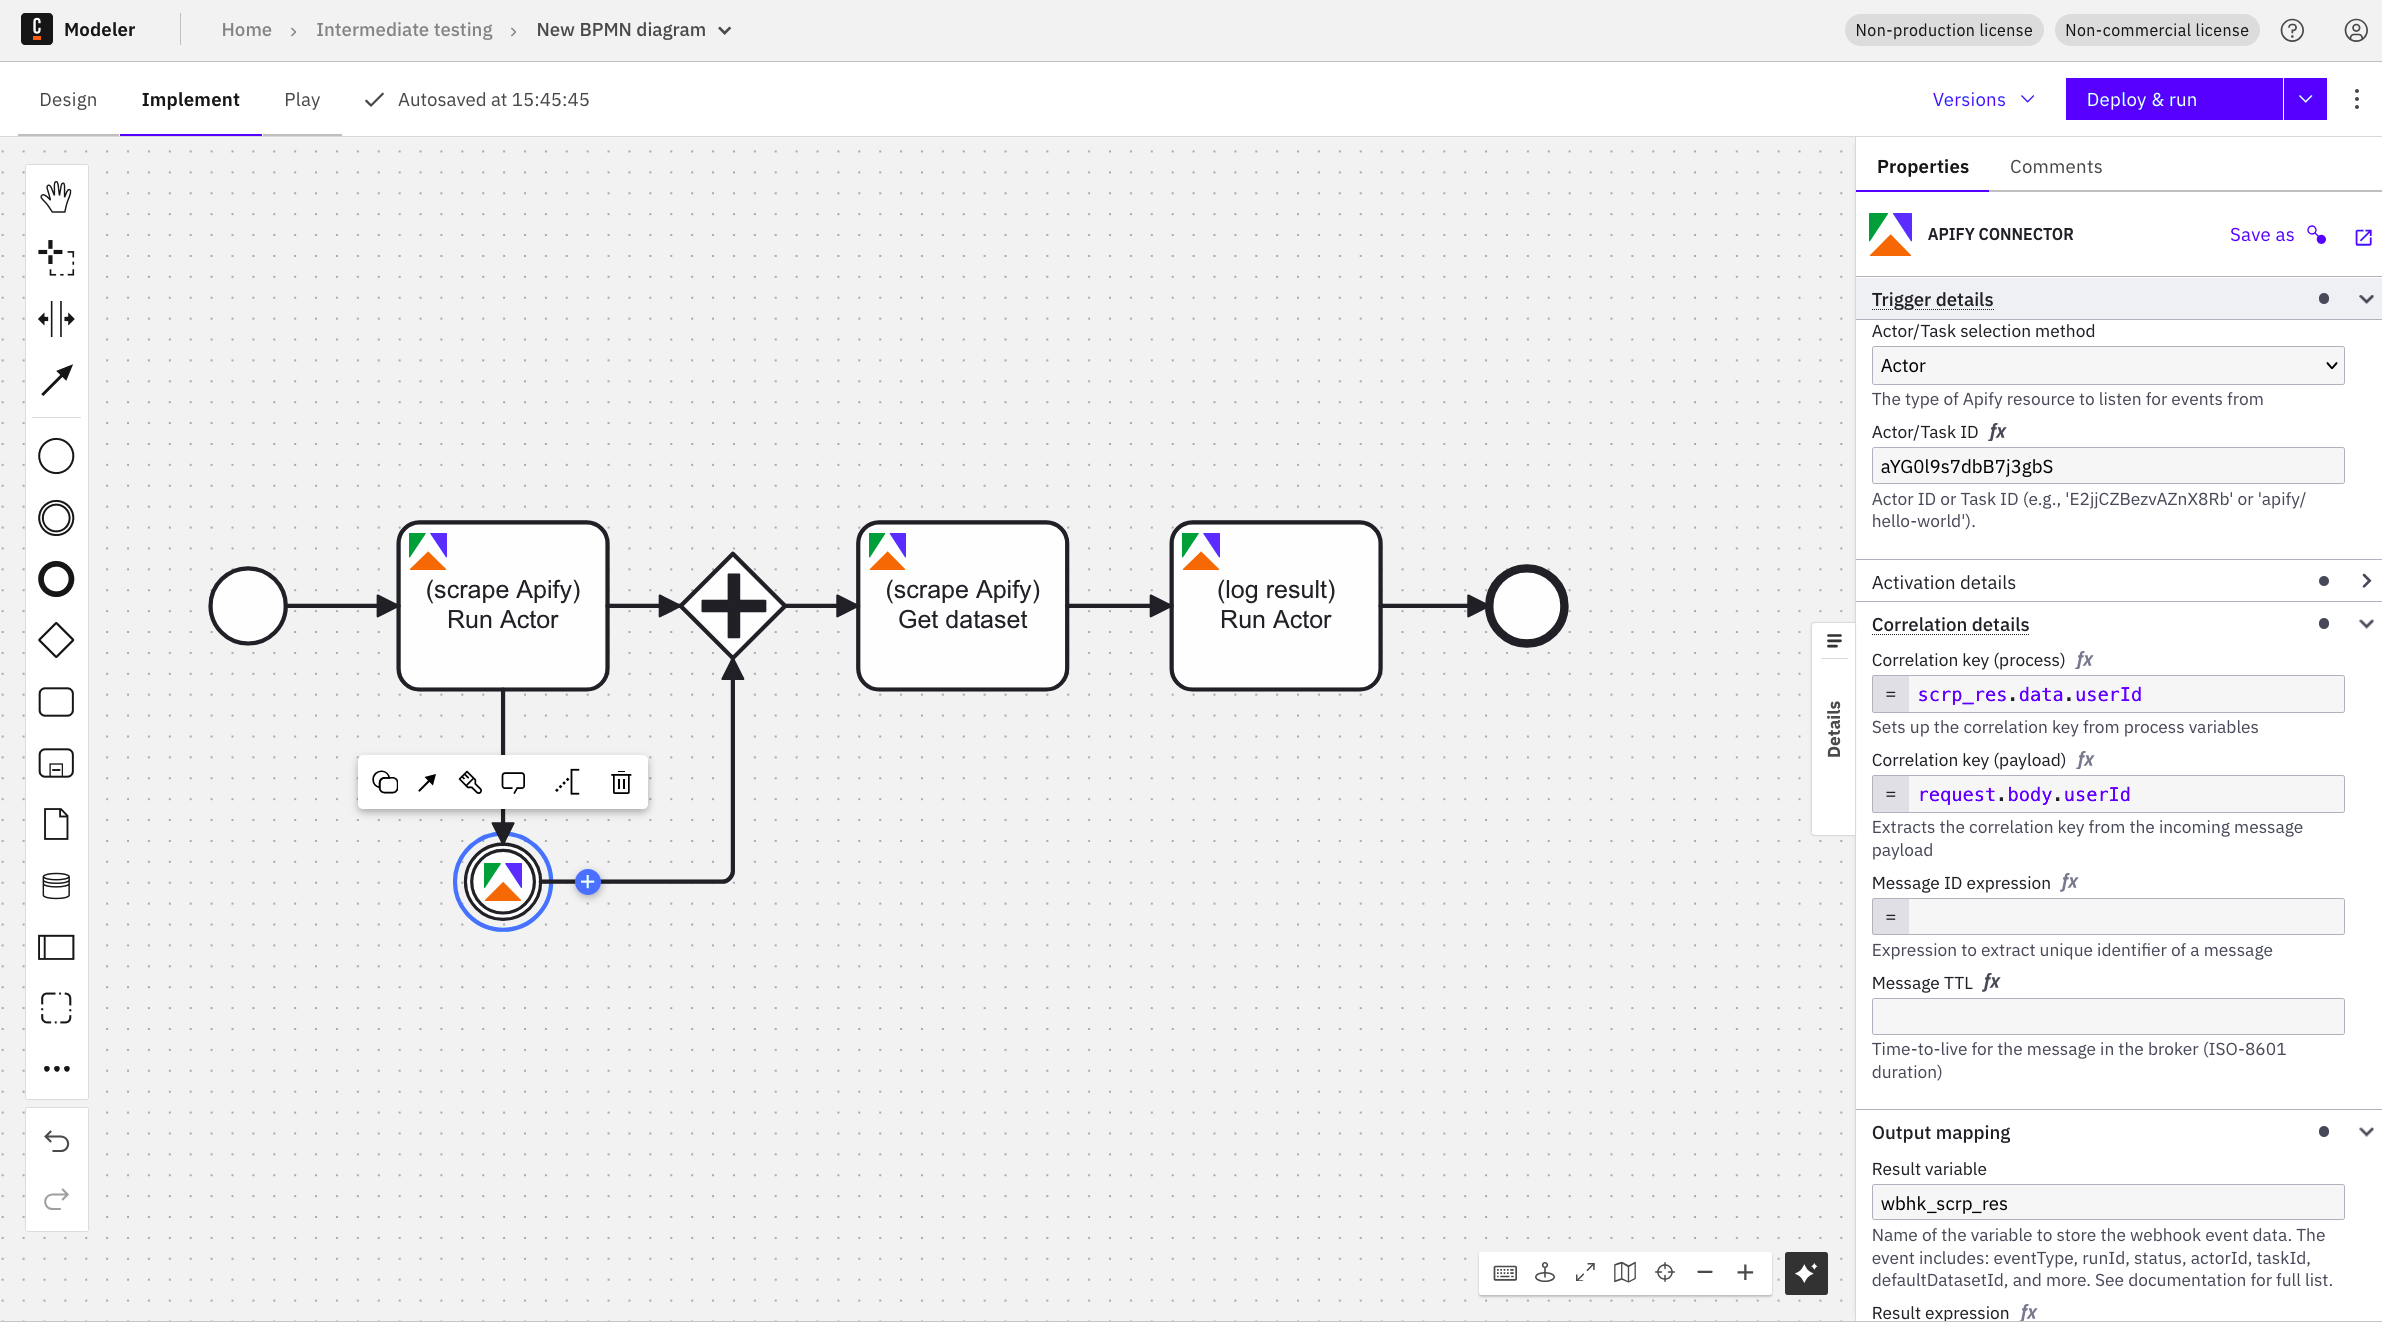
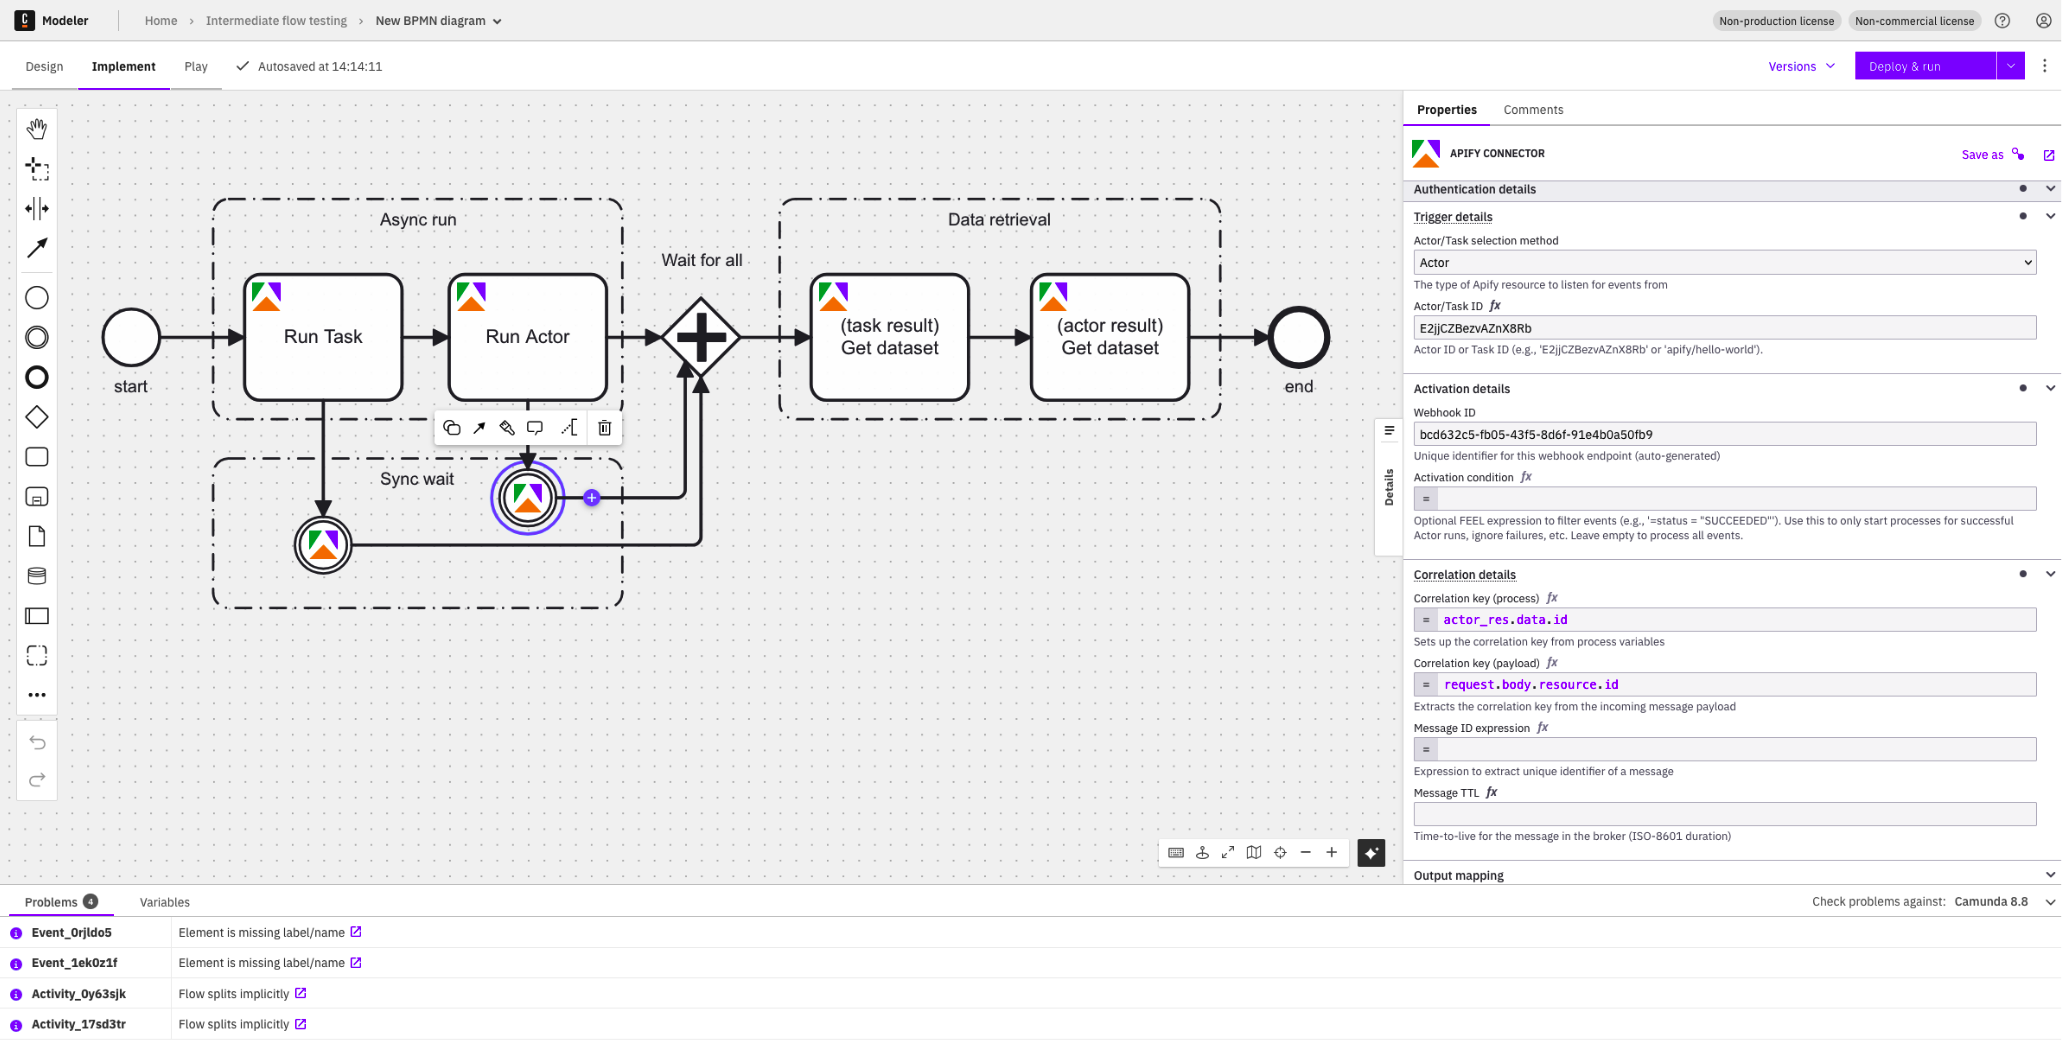
fix: updated more complex flow, and updated readme, still needs to be revisited and updated

diff --git a/README.md b/README.md
@@ -28,6 +28,7 @@ Integrate [Apify](https://apify.com/) web scraping and automation capabilities i
     - [Understanding FEEL Expressions](#understanding-feel-expressions)
     - [Correlation Key Best Practices](#correlation-key-best-practices)
     - [Activation Condition](#activation-condition)
+  - [Testing Flows in the Modeler](#testing-flows-in-the-modeler)
 - [Reference](#reference)
   - [Camunda Architecture](#camunda-architecture)
   - [Service URLs](#service-urls)
@@ -47,7 +48,7 @@ Integrate [Apify](https://apify.com/) web scraping and automation capabilities i
 
 Follow the [Camunda Docker Compose quickstart](https://docs.camunda.io/docs/self-managed/quickstart/developer-quickstart/docker-compose) to spin up the full stack locally.
 
-> **Note:** Install the FULLY configured stack which includes Web Modeler. This connector was tested with [Camunda 8.8](https://github.com/camunda/camunda-distributions/releases/tag/docker-compose-8.8).
+> **Note:** Install the **fully** configured stack which includes Web Modeler. This connector was tested with [Camunda 8.8](https://github.com/camunda/camunda-distributions/releases/tag/docker-compose-8.8).
 
 ### 2. Clone and Build
 
@@ -115,7 +116,9 @@ Keep this terminal running while working with Camunda Modeler.
 
 ### Regenerating Element Templates
 
-The templates in `element-templates/` were generated and then customized for Apify. If you want to regenerate the original (base) templates, including all possible versions, use the command below. We use two inbound and one outbound template; several additional inbound templates exist, but you typically shouldn't regenerate unless you're sure, as Apify-specific changes may be lost.
+The templates in `element-templates/` were generated and then customized for Apify. We use two inbound and one outbound template.
+
+If you want to regenerate the original (base) templates, use the command below. **Warning:** Apify-specific customizations may be lost when regenerating.
 
 
 ```bash
@@ -201,11 +204,15 @@ Use the Start Event to begin a new process instance when an Apify webhook fires 
    - **Resource ID**: The Actor/Task **ID** or **name**
    - **Output Variable**: Variable name for the webhook result (e.g., `webhookResult`)
 
-7. **Deploy** the process. This automatically creates a webhook in Apify.
+7. **Deploy** or **Play** the process:
+   - **Deploy**: Creates a persistent webhook in Apify that listens for events continuously
+   - **Play**: Runs the process once in the modeler's playground without creating persistent webhooks
 
 ![Deploying the process](docs/modeler/set-inputs-and-deploy.png)
 
-8. Verify the webhook was created in Apify (Actor page → **Integrations** tab).
+> **Tip:** For testing inbound connectors, prefer using **Play mode** instead of deploying. See [Testing Flows in the Modeler](#testing-flows-in-the-modeler) for details.
+
+8. If you deployed, verify the webhook was created in Apify (Actor page → **Integrations** tab).
 
 9. If you used `http://example.com` as the connector base URL, update the webhook URL in Apify to your ngrok URL.
 
@@ -244,7 +251,7 @@ Use the Intermediate Event to launch Actors asynchronously and wait for their co
 Unlike Start Events, Intermediate Events need to know **which** process instance to wake up. This is done via **Correlation Keys**.
 
 Think of it as matching tickets:
-1. **Correlation key (process)**: A value stored in your process (e.g., `userId` from Actor launch response)
+1. **Correlation key (process)**: A value stored in your process (e.g., run `id` from Actor launch response)
 2. **Correlation key (payload)**: The same value extracted from the incoming webhook
 
 When they match, the waiting process continues.
@@ -254,8 +261,8 @@ When they match, the waiting process continues.
 Correlation keys and other connector fields use **FEEL** (Friendly Enough Expression Language), Camunda's expression language for accessing process variables and webhook data.
 
 **Key syntax:**
-- Expressions start with `=` (e.g., `=scrp_res.data.userId`)
-- Use dot notation to access nested fields (e.g., `request.body.userId`)
+- Expressions start with `=` (e.g., `=scrp_res.data.id`)
+- Use dot notation to access nested fields (e.g., `request.body.resource.id`)
 - Without `=`, values are treated as literal strings
 
 **Common patterns:**
@@ -264,12 +271,12 @@ Correlation keys and other connector fields use **FEEL** (Friendly Enough Expres
 |------------|-------------|
 | `=myVariable` | Access a process variable |
 | `=response.data.id` | Access nested field from a variable |
-| `=request.body.userId` | Access field from incoming webhook payload |
+| `=request.body.resource.id` | Access field from incoming webhook payload |
 | `="literal"` | Literal string value |
 
 **In the context of this connector:**
-- **Process expressions** (like `=scrp_res.data.userId`) reference variables set earlier in the process
-- **Payload expressions** (like `=request.body.userId`) reference fields in the incoming webhook HTTP request
+- **Process expressions** (like `=scrp_res.data.id`) reference variables set earlier in the process
+- **Payload expressions** (like `=request.body.resource.id`) reference fields in the incoming webhook HTTP request
 
 For more details, see [Camunda FEEL documentation](https://docs.camunda.io/docs/components/modeler/feel/what-is-feel/).
 
@@ -310,7 +317,7 @@ Configure the outbound connector to scrape apify.com:
 
 **3. Parallel Gateway (Fork)**
 
-Add an **Inclusive Gateway** (or Parallel Gateway) immediately after the Run Actor task. This splits the flow into branches:
+Add a **Parallel Gateway** immediately after the Run Actor task. This splits the flow into branches:
 - **Branch 1**: The Intermediate Event that waits for the webhook
 - **Branch 2**: Any other work you want to do while waiting (optional)
 
@@ -323,22 +330,22 @@ In one branch, add an Apify Inbound Intermediate Event to wait for the Actor to 
 | **Token** | Your Apify API token |
 | **Resource Type** | Actor |
 | **Resource ID** | `aYG0l9s7dbB7j3gbS` (same Actor) |
-| **Correlation key (process)** | `=scrp_res.data.userId` |
-| **Correlation key (payload)** | `=request.body.userId` |
+| **Correlation key (process)** | `=scrp_res.data.id` |
+| **Correlation key (payload)** | `=request.body.resource.id` |
 | **Result Variable** | `wbhk_scrp_res` |
 | **Result Expression** | `=wbhk_scrp_res` |
 
 **Where do these values come from?**
 
-- **`scrp_res.data.userId`**: This comes from the [Run Actor API response](https://docs.apify.com/api/v2#/reference/actors/run-collection/run-actor). When you start an Actor, Apify returns a JSON object containing run details including `userId`, `id` (runId), `defaultDatasetId`, etc.
+- **`scrp_res.data.id`**: This comes from the [Run Actor API response](https://docs.apify.com/api/v2#/reference/actors/run-collection/run-actor). When you start an Actor, Apify returns a JSON object containing run details including `id` (the run ID), `userId`, `defaultDatasetId`, etc.
 
-- **`request.body.userId`**: This comes from the webhook payload that Apify sends when the Actor completes. The webhook body contains the same fields. See [Apify Webhooks documentation](https://docs.apify.com/platform/integrations/webhooks) for the full payload structure.
+- **`request.body.resource.id`**: This comes from the webhook payload that Apify sends when the Actor completes. The `resource` object contains details about the run, including its `id`. See [Apify Webhooks documentation](https://docs.apify.com/platform/integrations/webhooks) for the full payload structure.
 
 This branch will pause until the Actor completes and sends a webhook.
 
 **5. Parallel Gateway (Join)**
 
-Add another Inclusive/Parallel Gateway to merge the branches. The flow continues only after all branches complete (including the webhook being received).
+Add another **Parallel Gateway** to merge the branches. The flow continues only after all branches complete (including the webhook being received).
 
 **6. Get Dataset Items**
 
@@ -359,36 +366,39 @@ Use Hello World Actor to verify the gathered data:
 |---------|-------|
 | **Operation** | Run Actor |
 | **Actor ID** | `E2jjCZBezvAZnX8Rb` (Hello World) |
-| **Input JSON** | `{"message": data_res}` |
+| **Input JSON** | `={"message": data_res}` |
 | **Wait for Finish** | `true` |
 
-**8. Deploy and Test**
+**8. Run or Deploy**
 
-1. Deploy & start the process
-1. The scraper launches asynchronously
-1. The parallel gateway splits: one branch immediately starts waiting for the webhook
-1. When the Actor completes, Apify sends a webhook
-1. The webhook wakes up the waiting branch (correlation keys match on `userId`)
-1. The join gateway waits for all branches to complete
-1. Dataset items are retrieved and passed to Hello World Actor
+You have two options to test your process:
 
+- **Play mode** (recommended for testing): Click **Play** next to the Implement tab to run the process once without creating persistent webhooks. Results appear in Camunda Operate.
+- **Deploy & run**: Creates persistent webhooks that continue listening for Apify events after the process completes.
+
+**What happens when you run the process:**
+
+1. The process starts and the scraper launches asynchronously
+2. The parallel gateway splits: one branch immediately starts waiting for the webhook
+3. When the Actor completes, Apify sends a webhook
+4. The webhook wakes up the waiting branch (correlation keys match on run ID)
+5. The join gateway waits for all branches to complete
+6. Dataset items are retrieved and passed to Hello World Actor
+
+> **Note:** Both Play mode and Deploy & run show results in Camunda Operate. Use Play mode during development to avoid accumulating webhook listeners.
 
 #### Tips
 
 **Correlation Key Best Practices**
 
-Correlation keys ensure that incoming webhooks are matched to the correct waiting process instance. Choose the right key based on your use case:
+Correlation keys ensure that incoming webhooks are matched to the correct waiting process instance. The recommended approach uses the Actor Run ID for precise matching:
 
 | Correlation Key | Process Expression | Payload Expression | Best For |
 |-----------------|-------------------|-------------------|----------|
-| **User ID** | `=scrp_res.data.userId` | `=request.body.userId` | Single Apify account, simple workflows |
-| **Actor Run ID** *(planned)* | `=scrp_res.data.id` | `=request.body.actorRunId` | Multiple concurrent runs of the same Actor |
-
-**Current limitation:** Only `userId` is available in webhook payloads. Support for `actorRunId` correlation is planned for a future release, which will enable more precise matching when running multiple instances of the same Actor concurrently.
+| **Actor Run ID** | `=scrp_res.data.id` | `=request.body.resource.id` | All use cases (recommended) |
 
 **Recommendations:**
-- For most use cases with a single Apify account, `userId` correlation is sufficient
-- If you need to run the same Actor multiple times in parallel within different process instances, consider using unique identifiers in your workflow design until `actorRunId` support is added
+- Use the Actor Run ID for correlation - it uniquely identifies each run and works correctly even when running multiple instances of the same Actor concurrently
 - Always test correlation in a development environment before deploying to production
 
 **Activation Condition**
@@ -414,6 +424,35 @@ This prevents your workflow from continuing (and potentially failing) when an Ac
 
 **Timeouts**
 - Add a **Timer Boundary Event** for timeout handling when Actors may take longer than expected
+
+---
+
+### Testing Flows in the Modeler
+
+When developing and testing inbound connectors, you have two options:
+
+| Mode | Webhooks | Best For |
+|------|----------|----------|
+| **Play mode** | Temporary (deleted after run) | Development and testing |
+| **Deploy & run** | Persistent (keep listening) | Production workflows |
+
+**Recommended: Use Play mode during development**
+
+Play mode offers several advantages for testing:
+- **No webhook cleanup**: Webhooks are automatically removed after the process completes
+- **Same visibility**: Results still appear in Camunda Operate for debugging
+- **Faster iteration**: No need to manually delete webhooks between test runs
+
+**How to use Play mode:**
+1. Click the **Play** button (next to the Implement tab) in Web Modeler
+2. Configure any required input variables
+3. Start the process
+4. Trigger the Apify event (e.g., run the Actor)
+5. View results in Camunda Operate
+
+**When to use Deploy & run:**
+- Production workflows that need to continuously listen for Apify events
+- Long-running processes that should persist across connector restarts
 
 ---
 
@@ -500,7 +539,7 @@ The Camunda platform consists of several services:
 
 ### Cleaning Up Stale Webhooks
 
-During testing, you may accumulate webhooks. To start fresh:
+During testing, you may accumulate webhooks. To start fresh, reset your Camunda Docker Compose stack:
 
 ```bash
 cd docker-compose-8.8